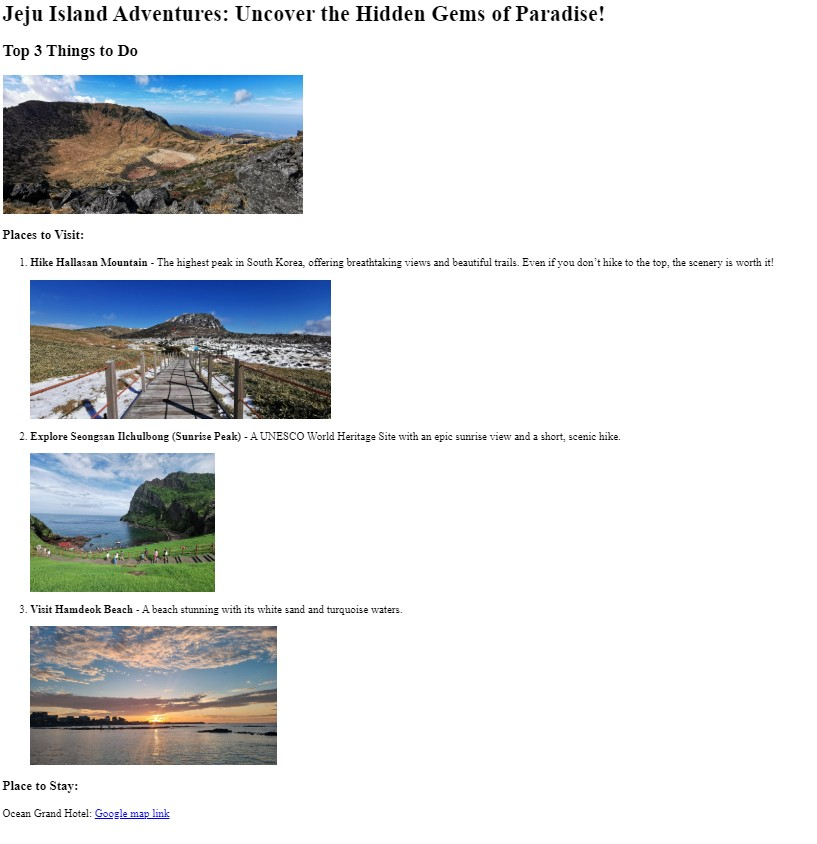
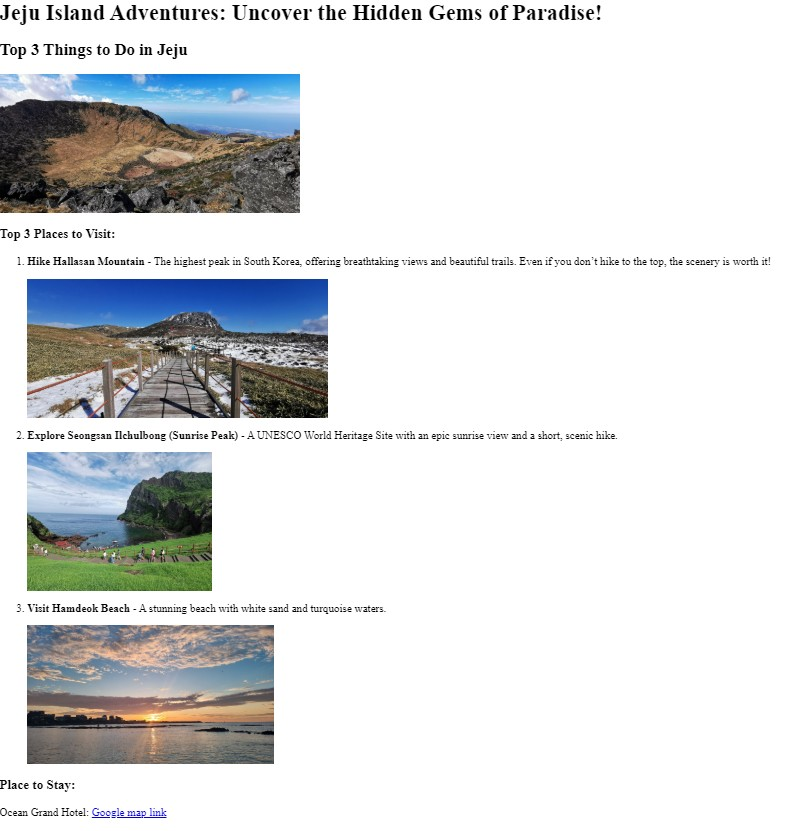
Add files via upload

Changed region(s): [[0.0, 0.0, 0.9697, 0.9928], [0.2727, 0.0903, 0.3333, 0.1203]]

diff --git a/public/jeju-travel.html b/public/jeju-travel.html
@@ -1,11 +1,11 @@
 <!-- This is one possible solution -->
 <h1>Jeju Island Adventures: Uncover the Hidden Gems of Paradise!</h1>
-<h2>Top 3 Things to Do</h2>
+<h2>Top 3 Things to Do in Jeju</h2>
 
 <img src="../assets/images/Hallasan Crater.jpg"
   alt="top of hallasan in jeju with the crater" height="200"/>
 
-<h3>Places to Visit:</h3>
+<h3>Top 3 Places to Visit:</h3>
 <ol>
   
     <li><b>Hike Hallasan Mountain</b> - The highest peak in South Korea, offering breathtaking views and beautiful trails. Even if you don’t hike to the top, the scenery is worth it!</li><br />
@@ -13,7 +13,7 @@
     
     <li><p><b>Explore Seongsan Ilchulbong (Sunrise Peak)</b> - A UNESCO World Heritage Site with an epic sunrise view and a short, scenic hike.</li></p>
     <img src="../assets/images/Seongsan.jpg" height="200"/><br />
-    <li><p><b>Visit Hamdeok Beach</b> - A beach stunning with its white sand and turquoise waters.</li></p>
+    <li><p><b>Visit Hamdeok Beach</b> - A stunning beach with white sand and turquoise waters.</li></p>
     <img src="../assets/images/Hamdeok Beach.jpg" height="200"/>
 </ol>
 
